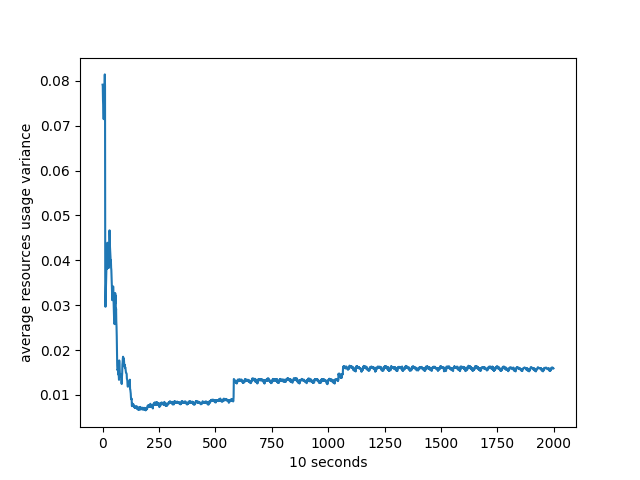
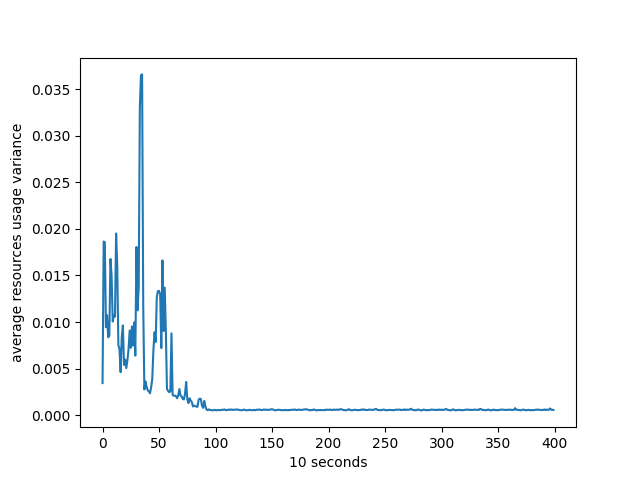
fix the issues about process terminated

diff --git a/deploy/python/analysis/scheduler_metrics.py b/deploy/python/analysis/scheduler_metrics.py
@@ -27,7 +27,8 @@ class SchedulerMetrics:
                         "e2e_latency_p50": [],
                         "e2e_latency_p99": [],
                         "e2e_latency_count": [],
-                        "task_rate_mean": []}
+                        "task_rate_mean": [],
+                        "task_rate_m1": []}
         self.log_file = log_file
 
     def parse(self):
@@ -37,6 +38,7 @@ class SchedulerMetrics:
                     self.metrics["num_messages"].append(int(line.split(",")[2].split("=")[1]))
                 elif self.task_rate_pattern.match(line):
                     self.metrics["task_rate_mean"].append(float(line.split(",")[6].split("=")[1]))
+                    self.metrics["task_rate_m1"].append(float(line.split(",")[3].split("=")[1]))
                 elif self.e2e_latency_pattern.match(line):
                     self.metrics["e2e_latency_avg"].append(float(line.split(",")[5].split("=")[1]))
                     self.metrics["e2e_latency_max"].append(float(line.split(",")[4].split("=")[1]))
@@ -52,6 +54,9 @@ class SchedulerMetrics:
 
     def get_task_rate_mean(self):
         return self.metrics["task_rate_mean"]
+
+    def get_task_rate_m1(self):
+        return self.metrics["task_rate_m1"]
 
     def get_e2e_latency_avg(self):
         return self.metrics["e2e_latency_avg"]

diff --git a/deploy/python/analysis/composited_nodes_metrics.py b/deploy/python/analysis/composited_nodes_metrics.py
@@ -99,12 +99,16 @@ class CompositedNodesMetrics:
         return get_average_nodes_metrics("disk_usage", self.length, self.node_metrics), \
             get_variance_nodes_metrics("disk_usage", self.length, self.node_metrics)
 
-    def get_average_resource_mean_and_variance(self):
+    def get_average_resource_mean_and_variance(self, include_disk=False):
         cpu_mean, cpu_variance = self.get_cpu_usage_mean_and_variance()
         mem_mean, mem_variance = self.get_mem_usage_mean_and_variance()
-        disk_mean, disk_variance = self.get_disk_usage_mean_and_variance()
-        average_mean = [sum(x) / 3 for x in zip(cpu_mean, mem_mean, disk_mean)]
-        average_variance = [sum(x) / 3 for x in zip(cpu_variance, mem_variance, disk_variance)]
+        if include_disk:
+            disk_mean, disk_variance = self.get_disk_usage_mean_and_variance()
+            average_mean = [sum(x) / 3 for x in zip(cpu_mean, mem_mean, disk_mean)]
+            average_variance = [sum(x) / 3 for x in zip(cpu_variance, mem_variance, disk_variance)]
+        else:
+            average_mean = [sum(x) / 2 for x in zip(cpu_mean, mem_mean)]
+            average_variance = [sum(x) / 2 for x in zip(cpu_variance, mem_variance)]
         return average_mean, average_variance
 
     def get_variance_waiting_tasks(self):

diff --git a/deploy/python/scripts/plot.py b/deploy/python/scripts/plot.py
@@ -11,7 +11,7 @@ if not os.path.exists(target_dir):
     os.makedirs(target_dir)
 
 time_steps = 10
-max_checkpoints = 2000
+max_checkpoints = 400
 composited_node_host_file = "deploy/resources/log/node/{}".format(experiment_name)
 
 nodes_metrics = CompositedNodesMetrics(composited_node_host_file)
@@ -54,7 +54,7 @@ for scheduler_log in os.listdir(scheduler_host_file):
 scheduler_metrics.parse()
 
 num_messages = scheduler_metrics.get_num_messages()
-task_rate_mean = scheduler_metrics.get_task_rate_mean()
+task_rate_m1 = scheduler_metrics.get_task_rate_m1()
 e2e_latency_avg = scheduler_metrics.get_e2e_latency_avg()
 
 plt.figure(5)
@@ -64,10 +64,10 @@ plt.ylabel("scheduler num messages")
 plt.savefig("{}/scheduler_num_messages.png".format(target_dir))
 
 plt.figure(6)
-plt.plot(task_rate_mean[:max_checkpoints], label="task rate mean")
+plt.plot(task_rate_m1[:max_checkpoints], label="task rate m1")
 plt.xlabel("{} seconds".format(time_steps))
-plt.ylabel("scheduler task rate mean")
-plt.savefig("{}/scheduler_task_rate_mean.png".format(target_dir))
+plt.ylabel("scheduler task rate in last one minute")
+plt.savefig("{}/scheduler_task_rate_m1.png".format(target_dir))
 
 plt.figure(7)
 e2e_latency_avg_in_seconds = [e2e_latency / 1000 for e2e_latency in e2e_latency_avg]

diff --git a/src/main/java/edu/cam/dodoor/node/FifoTaskScheduler.java b/src/main/java/edu/cam/dodoor/node/FifoTaskScheduler.java
@@ -46,8 +46,6 @@ public class FifoTaskScheduler extends TaskScheduler {
 
     @Override
     protected void handleTaskFinished(TFullTaskId finishedTask) {
-        _nodeResources.freeTask(finishedTask.resourceRequest.cores,
-                finishedTask.resourceRequest.memory, finishedTask.resourceRequest.disks);
         attemptTaskLaunch(finishedTask.taskId);
     }
 
@@ -75,6 +73,7 @@ public class FifoTaskScheduler extends TaskScheduler {
             }
         }
         _activeTasks -= 1;
+        LOG.debug("No tasks to run, {} of {} task slots currently filled", _activeTasks, _numSlots);
     }
 
     @Override

diff --git a/src/main/java/edu/cam/dodoor/node/NodeImpl.java b/src/main/java/edu/cam/dodoor/node/NodeImpl.java
@@ -66,10 +66,11 @@ public class NodeImpl implements Node{
 
     @Override
     public synchronized void taskFinished(TFullTaskId task) throws TException {
-        _taskScheduler.tasksFinished(task);
         _requested_cores.getAndAdd(-task.resourceRequest.cores);
         _requested_memory.getAndAdd(-task.resourceRequest.memory);
         _requested_disk.getAndAdd(-task.resourceRequest.disks);
+        _nodeResources.freeTask(task.resourceRequest.cores, task.resourceRequest.memory, task.resourceRequest.disks);
+        _taskScheduler.tasksFinished(task);
 
         _waitingOrRunningTasksCounter.getAndAdd(-1);
 

diff --git a/src/main/java/edu/cam/dodoor/node/TaskLauncherService.java b/src/main/java/edu/cam/dodoor/node/TaskLauncherService.java
@@ -28,10 +28,7 @@ public class TaskLauncherService {
                 LOG.debug("Received task{}", task._taskId);
                 try {
                     Process process = executeLaunchTask(task);
-                    Thread.sleep(task._duration);
-                    if (process.isAlive()) {
-                        process.destroy();
-                    }
+                    process.waitFor();
                 } catch (IOException | InterruptedException e) {
                     throw new RuntimeException(e);
                 }

diff --git a/deploy/python/scripts/collect_logs.py b/deploy/python/scripts/collect_logs.py
@@ -8,8 +8,7 @@ host_prefix = "wd312@caelum-"
 
 ip_pattern = re.compile("\d+:\d+.\d+.\d+.\d+")
 
-exp_name = sys.argv[1]
-
+exp_name = "exp_azure_full_replay/dodoor"
 with open(node_host_file, "r") as f:
     node_hosts = f.readlines()
     for host in node_hosts:
